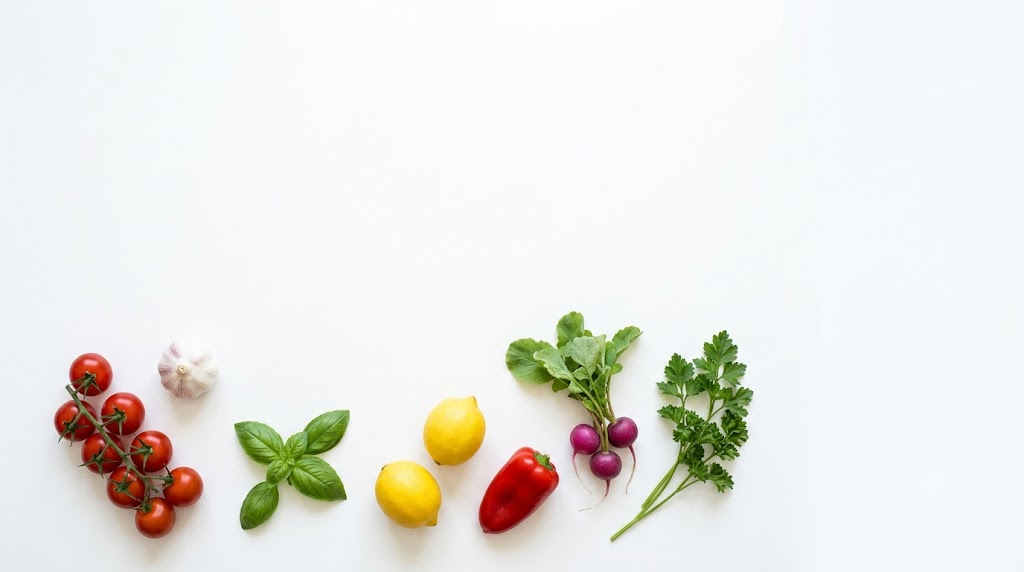
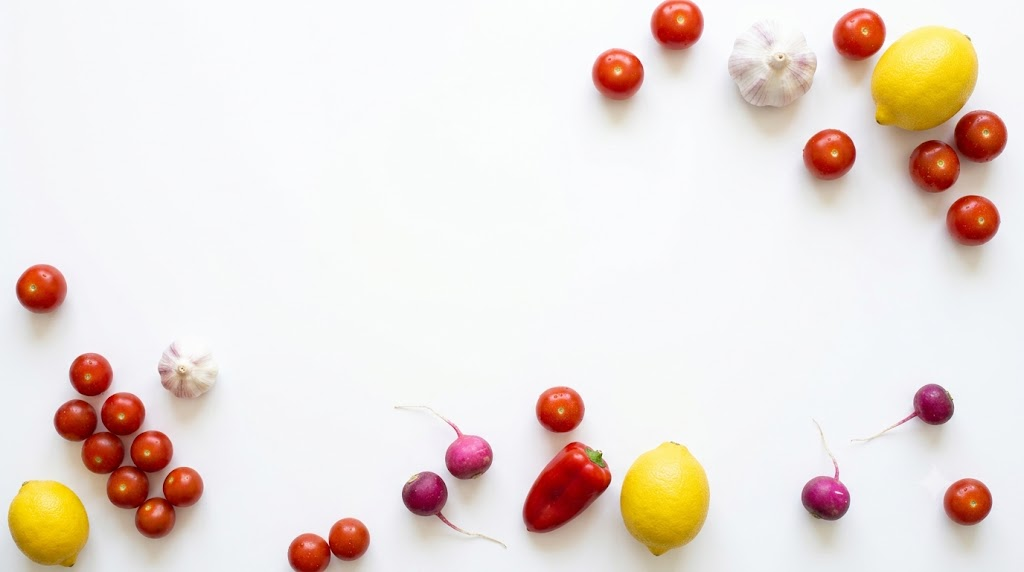
feat: use framed perimeter vegetable photo as background with max visibility

diff --git a/frontend/src/index.css b/frontend/src/index.css
@@ -83,7 +83,7 @@ body::before {
   right: 0;
   bottom: 0;
   z-index: -1;
-  background: url('./assets/fresh_vegetables_bg.png') no-repeat bottom center / cover;
+  background: url('./assets/fresh_vegetables_bg.png') no-repeat center center / cover;
   pointer-events: none;
 }
 
